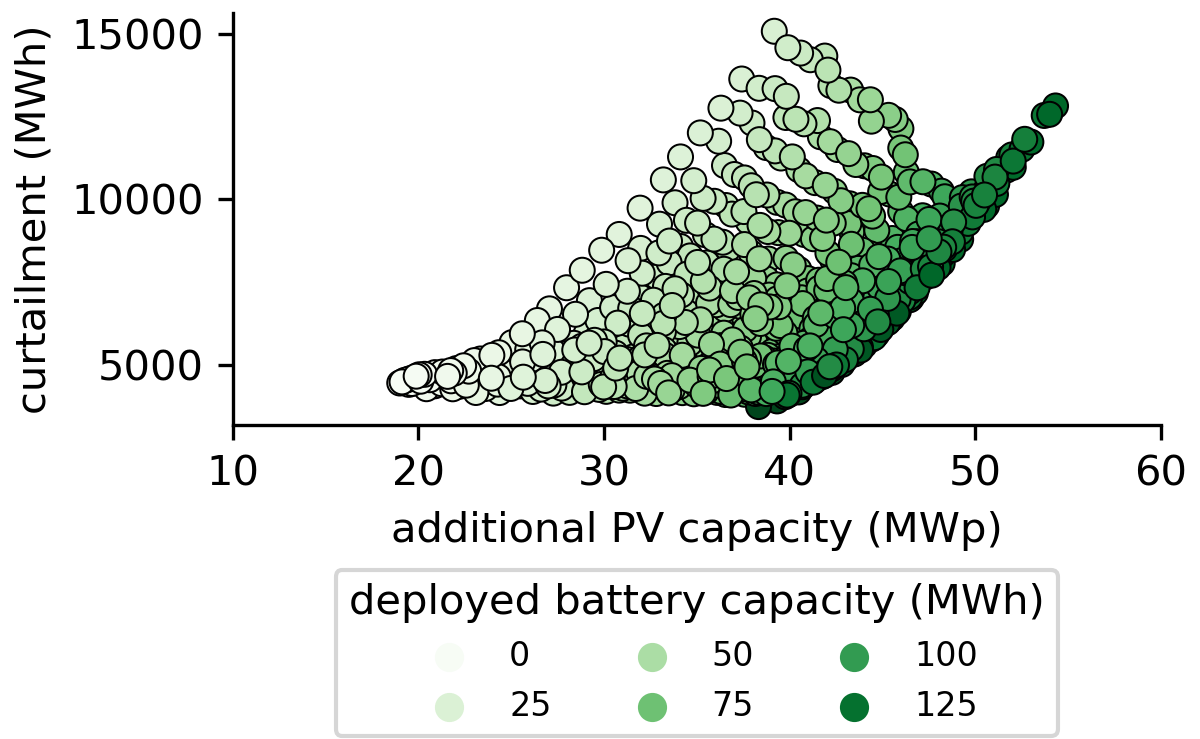
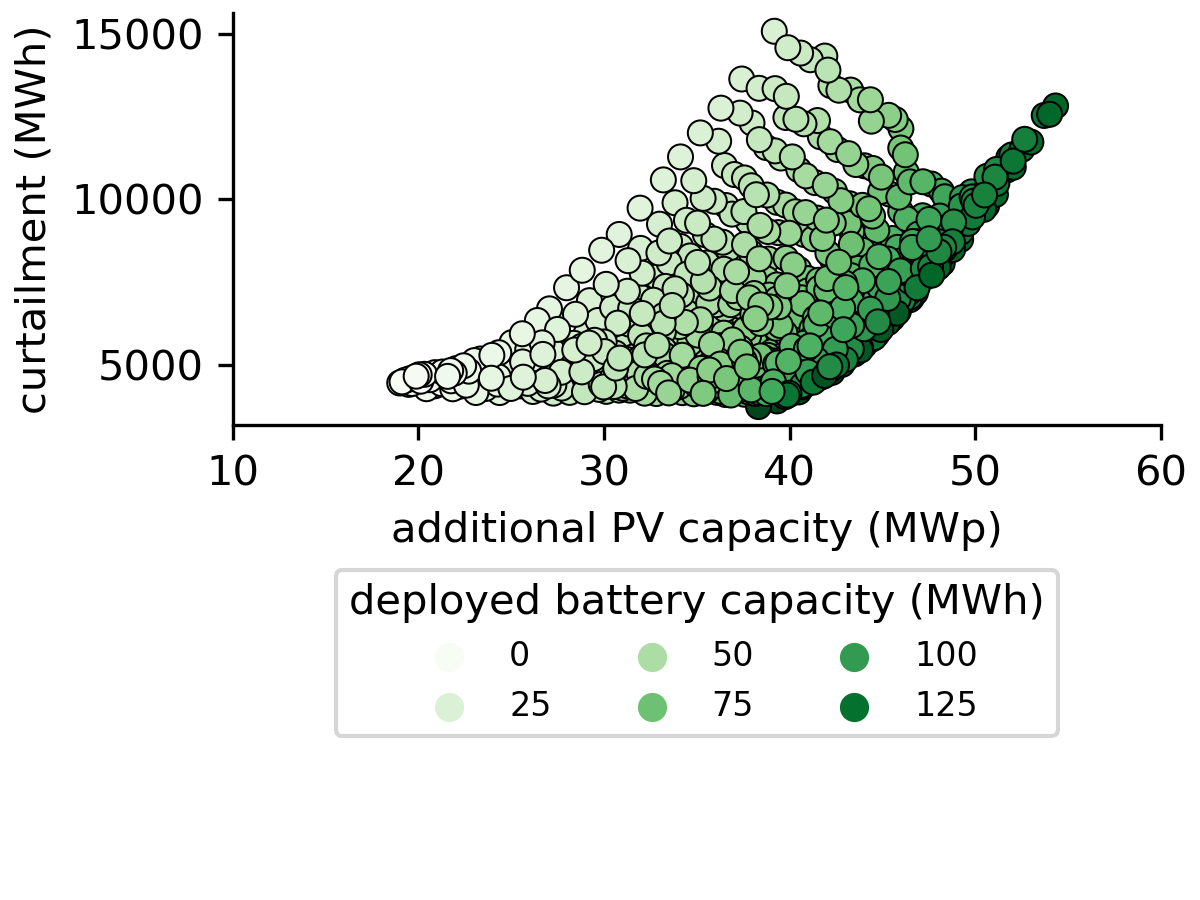
update figures

diff --git a/experiments/cablepool/analysis/cablepool_postprocess_figures.py b/experiments/cablepool/analysis/cablepool_postprocess_figures.py
@@ -9,6 +9,9 @@ from cablepool_postprocess_data import (
     total_bat_col,
     pv_dc_col,
 )
+from cablepool_postprocess_data import pv_col1 as high_dc_pv_col
+from cablepool_postprocess_data import pv_col2 as low_dc_pv_col
+
 from LESO.plotting import default_matplotlib_save, default_matplotlib_style
 from LESO.plotting import crop_transparency_top_bottom
 
@@ -46,6 +49,10 @@ from functools import partial
 
 twiny_energy_cost_for_2h_battery = partial(
     determine_cost_for_battery_config, storage_duration=2
+)
+
+twiny_energy_cost_for_6h_battery = partial(
+    determine_cost_for_battery_config, storage_duration=6
 )
 
 #%% open loop for all experiments
@@ -115,7 +122,7 @@ for experiment in experiments:
     bottom_xticks = ax.get_xticks()[1:-1]
     ax2.set_xlim(ax.get_xlim())
     ax2.set_xticks(bottom_xticks)
-    ax2.set_xticklabels(twiny_energy_cost_for_2h_battery(bottom_xticks))
+    ax2.set_xticklabels(twiny_energy_cost_for_6h_battery(bottom_xticks))
     ax2.set_xlabel("2h battery capacity cost (€/kWh)")
 
     ax.legend(
@@ -123,7 +130,7 @@ for experiment in experiments:
         loc=9,
         borderaxespad=0.0,
         frameon=True,
-        title="Deployed PV capacity (MWp)",
+        title="deployed PV capacity (MWp)",
         ncol=6,
     )
 
@@ -154,7 +161,7 @@ for experiment in experiments:
         loc=9,
         borderaxespad=0.0,
         frameon=True,
-        title="Deployed PV capacity (MWp)",
+        title="deployed PV capacity (MWp)",
         ncol=6,
     )
     default_matplotlib_save(fig, IMAGE_FOLDER / "bat_cost_vs_pv_cost_z_pv.png")
@@ -255,7 +262,40 @@ for experiment in experiments:
 
     default_matplotlib_save(fig, IMAGE_FOLDER / "abs_curtailment_vs_deployment.png")
 
-    ## Fig XX  - additional figure
+    ## Fig X1  - additional figure add_fig_battery_cost_vs_storage_duration_z_battery
+    #%%
+    fig, ax = plt.subplots()
+    fig, ax = default_matplotlib_style(fig, ax)
+
+    fig.set_size_inches(6, 4)
+    sns.scatterplot(
+        x="battery_cost",
+        y="average_storage_duration",
+        size=total_bat_col,
+        hue=total_bat_col,
+        data=df,
+        palette="Greens",
+        ax=ax,
+        edgecolor="black",
+    )
+
+    ax.set_ylabel("storage duration (h)")
+    ax.set_xlabel("battery energy capacity cost (€/kWh)")
+
+    ax.legend(
+        bbox_to_anchor=(0.5, -0.2),
+        loc=9,
+        borderaxespad=0.0,
+        frameon=True,
+        title="deployed battery capacity (MWh)",
+        ncol=6,
+    )
+
+    default_matplotlib_save(
+        fig, IMAGE_FOLDER / "add_fig_battery_cost_vs_storage_duration_z_battery.png"
+    )
+
+    ## Fig X1  - additional figure add_fig_deployed_battery_vs_storage_duration_z_PV
     #%%
     fig, ax = plt.subplots()
     fig, ax = default_matplotlib_style(fig, ax)
@@ -267,25 +307,91 @@ for experiment in experiments:
         size=pv_dc_col,
         hue=pv_dc_col,
         data=df,
-        palette="Reds",
+        palette="YlOrBr",
         ax=ax,
         edgecolor="black",
     )
 
-    ax.set_ylabel("deployed battery capacity (MWh)")
-    ax.set_xlabel("battery energy capacity cost (€/kWh)")
+    ax.set_ylabel("storage duration (h)")
+    ax.set_xlabel("deployed battery capacity (MWh)")
 
     ax.legend(
         bbox_to_anchor=(0.5, -0.2),
         loc=9,
         borderaxespad=0.0,
         frameon=True,
-        title="Deployed PV capacity (MWp)",
+        title="deployed PV capacity (MWp)",
         ncol=6,
     )
 
-    #%%
-    default_matplotlib_save(fig, IMAGE_FOLDER / "addtional_figure_storage_duration.png")
+    default_matplotlib_save(
+        fig, IMAGE_FOLDER / "add_fig_deployed_battery_vs_storage_duration_z_PV.png"
+    )
+
+    # DC ratio plots for only both ratio experiments
+    if experiment == "both_ratios":
+
+        fig, ax = plt.subplots()
+        fig, ax = default_matplotlib_style(fig, ax)
+
+        fig.set_size_inches(6, 4)
+        sns.scatterplot(
+            x="pv_cost",
+            y="battery_cost",
+            size=high_dc_pv_col,
+            hue=high_dc_pv_col,
+            data=df,
+            palette="YlOrBr",
+            ax=ax,
+            edgecolor="black",
+        )
+
+        ax.set_ylabel("battery power\ncapacity cost (€/kW)")
+        ax.set_xlabel("PV capacity cost (€/kWp)")
+
+        ax.legend(
+            bbox_to_anchor=(0.5, -0.2),
+            loc=9,
+            borderaxespad=0.0,
+            frameon=True,
+            title="deployed PV capacity (MWp)\n(high DC ratio)",
+            ncol=6,
+        )
+
+        default_matplotlib_save(
+            fig, IMAGE_FOLDER / "pv_cost_vs_bat_cost_z_high_dc_capacity.png"
+        )
+        # ++++++++++++++++++++++++++++++++++++++++++++++++++++++++++++++++++++++++++++++++
+        fig, ax = plt.subplots()
+        fig, ax = default_matplotlib_style(fig, ax)
+
+        fig.set_size_inches(6, 4)
+        sns.scatterplot(
+            x="pv_cost",
+            y="battery_cost",
+            size=low_dc_pv_col,
+            hue=low_dc_pv_col,
+            data=df,
+            palette="YlOrBr",
+            ax=ax,
+            edgecolor="black",
+        )
+
+        ax.set_ylabel("battery power\ncapacity cost (€/kW)")
+        ax.set_xlabel("PV capacity cost (€/kWp)")
+
+        ax.legend(
+            bbox_to_anchor=(0.5, -0.2),
+            loc=9,
+            borderaxespad=0.0,
+            frameon=True,
+            title="deployed PV capacity (MWp)\n(low DC ratio)",
+            ncol=6,
+        )
+
+        default_matplotlib_save(
+            fig, IMAGE_FOLDER / "pv_cost_vs_bat_cost_z_low_dc_capacity.png"
+        )
 
     if True:
         crop_transparency_top_bottom(
